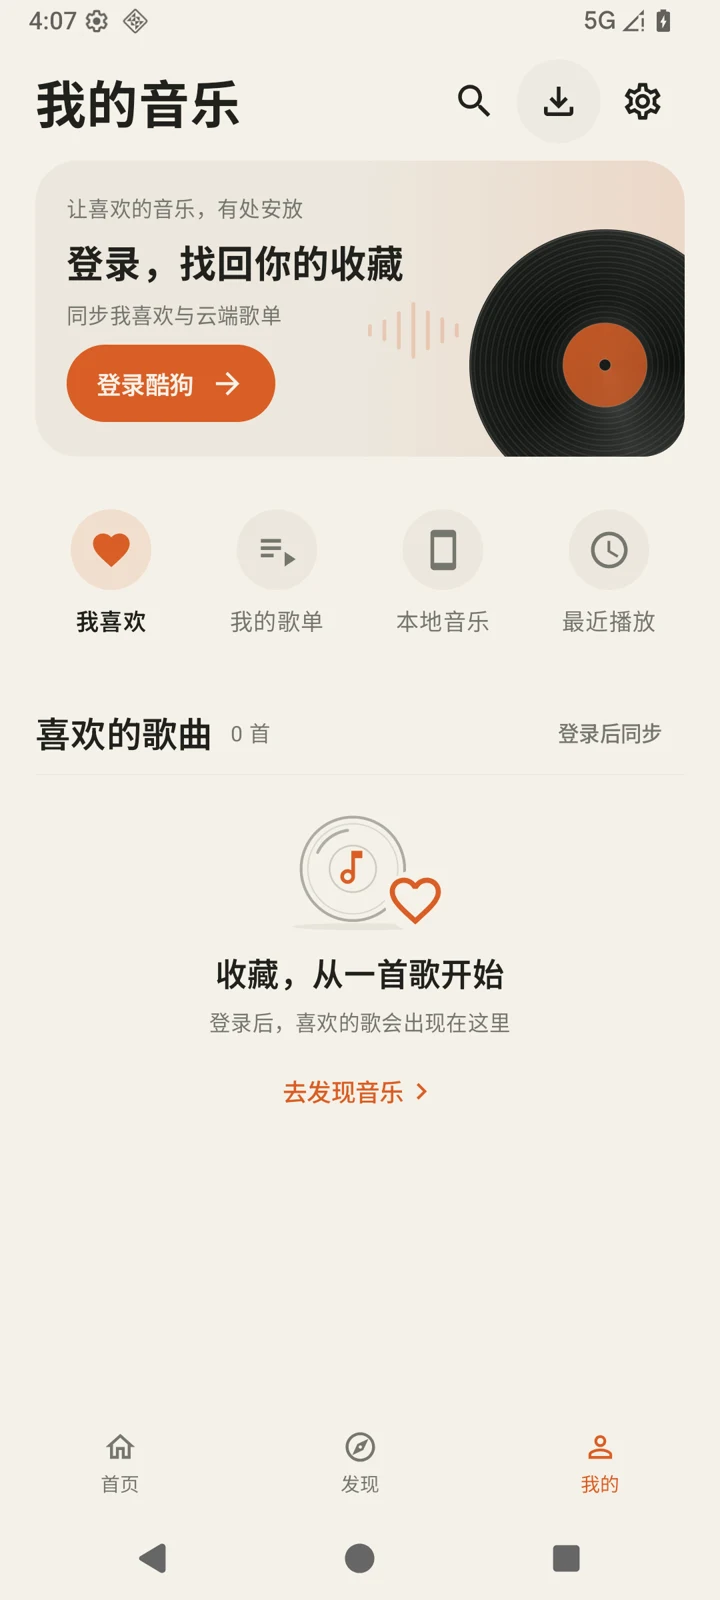
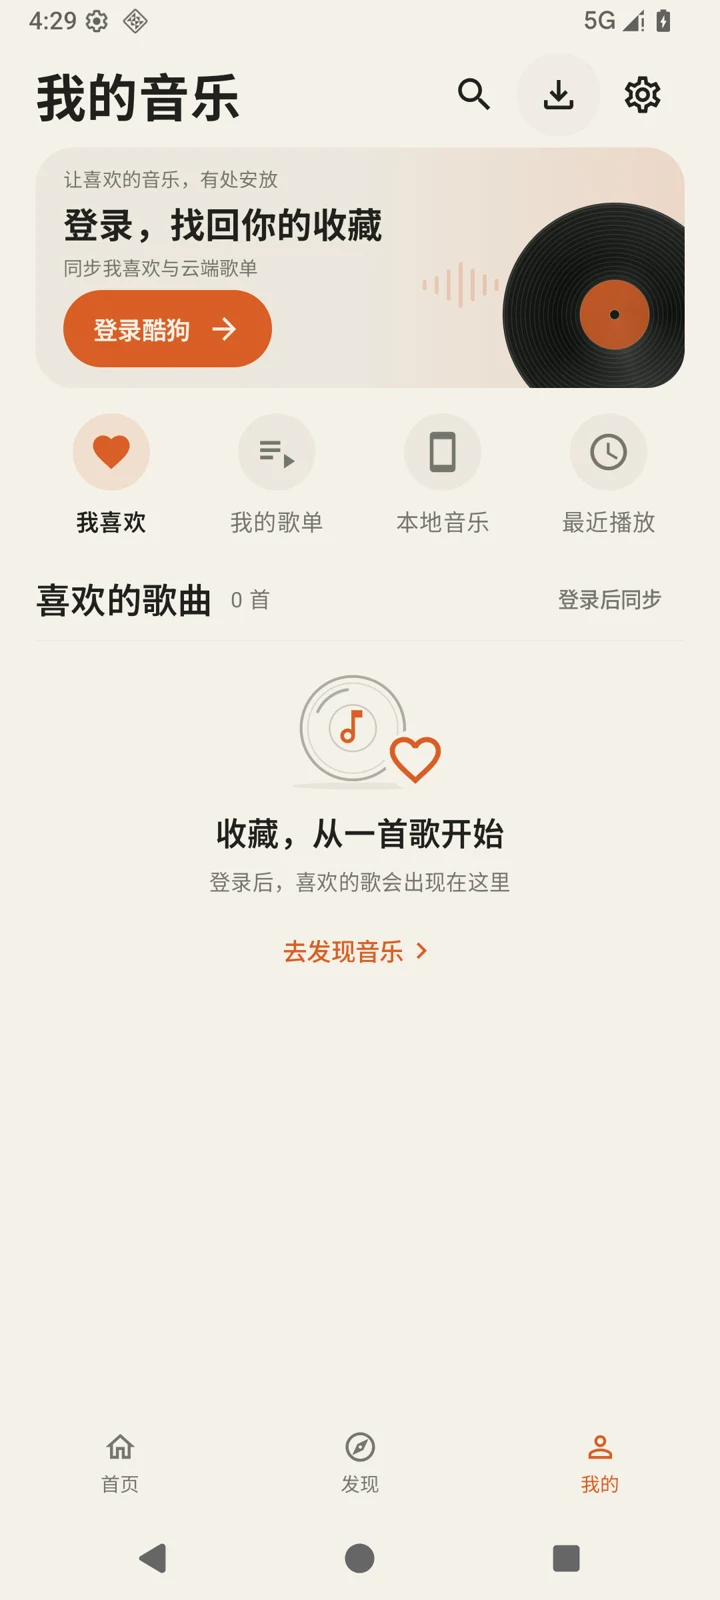
feat: 压缩账号卡并固定音乐库顶部区域

diff --git a/app/src/main/java/com/kimo/music/ui/LibraryScreen.kt b/app/src/main/java/com/kimo/music/ui/LibraryScreen.kt
@@ -3,7 +3,6 @@ package com.kimo.music.ui
 import android.os.Build
 import androidx.activity.compose.BackHandler
 import androidx.compose.foundation.background
-import androidx.compose.foundation.ExperimentalFoundationApi
 import androidx.compose.foundation.clickable
 import androidx.compose.foundation.layout.*
 import androidx.compose.foundation.lazy.LazyColumn
@@ -31,6 +30,7 @@ import androidx.compose.ui.graphics.Color
 import androidx.compose.ui.graphics.toArgb
 import androidx.compose.ui.layout.onGloballyPositioned
 import androidx.compose.ui.platform.LocalView
+import androidx.compose.ui.platform.testTag
 import androidx.compose.ui.semantics.Role
 import androidx.compose.ui.semantics.contentDescription
 import androidx.compose.ui.semantics.semantics
@@ -135,25 +135,54 @@ private fun rememberExpandedPlaylist(model: MusicViewModel, owner: String?, entr
     return expanded
 }
 
-// 各栏目独立保存滚动位置，切换后仍保留账号卡和同一排快捷入口。
-@OptIn(ExperimentalFoundationApi::class)
+// 工具栏、账号卡、四个入口和控制区都在滚动容器外，只有内容列表接收滚动。
 @Composable
 private fun LibraryPageContent(model: MusicViewModel, navigation: LibraryNavigation, actions: LibraryActions,
     tracks: List<Track>, expanded: ExpandedLibraryPlaylist?, onExpand: (CatalogEntry) -> Unit) {
-    LazyColumn(contentPadding = PaddingValues(horizontal = KimoLayout.PageInset, vertical = 10.dp),
-        verticalArrangement = Arrangement.spacedBy(10.dp)) {
-        stickyHeader(key = "library-header") {
-            Box(Modifier.background(KimoColors.Paper)) {
-                LibraryHeader(actions.search, { model.downloadsRequested = true }) { navigation.overlay = LibraryOverlay.Settings }
+    BoxWithConstraints(Modifier.fillMaxSize()) {
+        val compact = maxHeight < 500.dp && maxWidth > 600.dp
+        Column(Modifier.fillMaxSize().padding(horizontal = KimoLayout.PageInset).padding(top = if (compact) 4.dp else 6.dp)) {
+            LibraryFixedHeader(model, navigation, actions, tracks, compact)
+            LazyColumn(Modifier.fillMaxWidth().weight(1f).testTag("library-content-list"),
+                contentPadding = PaddingValues(top = 6.dp, bottom = 16.dp), verticalArrangement = Arrangement.spacedBy(10.dp)) {
+                if (navigation.tab == LibraryTab.Playlists) libraryPlaylistItems(model, navigation, actions, expanded, onExpand)
+                else librarySongItems(model, navigation, actions, tracks)
             }
         }
-        item(key = "library-identity") {
-            LibraryIdentityCard(LibraryIdentity.from(model.account.state, model.account.credentials != null)) { model.loginRequested = true }
+    }
+}
+
+// 横屏将账号卡与入口并排，固定上方内容的同时为下方列表保留空间。
+@Composable
+private fun LibraryFixedHeader(model: MusicViewModel, navigation: LibraryNavigation, actions: LibraryActions,
+    tracks: List<Track>, compact: Boolean) {
+    val identity = LibraryIdentity.from(model.account.state, model.account.credentials != null)
+    Column(Modifier.testTag("library-fixed-header")) {
+        LibraryHeader(actions.search, { model.downloadsRequested = true }) { navigation.overlay = LibraryOverlay.Settings }
+        Spacer(Modifier.height(if (compact) 4.dp else 6.dp))
+        if (compact) Row(verticalAlignment = Alignment.CenterVertically, horizontalArrangement = Arrangement.spacedBy(16.dp)) {
+            Box(Modifier.weight(1f)) { LibraryIdentityCard(identity, true) { model.loginRequested = true } }
+            Box(Modifier.weight(1f)) { LibraryShortcuts(navigation.tab, true) { navigation.tab = it } }
+        } else {
+            LibraryIdentityCard(identity) { model.loginRequested = true }
+            Spacer(Modifier.height(4.dp))
+            LibraryShortcuts(navigation.tab) { navigation.tab = it }
         }
-        item(key = "library-shortcuts") { LibraryShortcuts(navigation.tab) { navigation.tab = it } }
-        item(key = "library-section-heading") { LibrarySectionHeader(navigation, model, tracks.size) }
-        if (navigation.tab == LibraryTab.Playlists) libraryPlaylistItems(model, navigation, actions, expanded, onExpand)
-        else librarySongItems(model, navigation, actions, tracks)
+        LibraryFixedControls(model, navigation, actions, tracks, compact)
+    }
+}
+
+// 标题与导入、播放全部等控制按钮固定展示，不随歌曲滚动消失。
+@Composable
+private fun LibraryFixedControls(model: MusicViewModel, navigation: LibraryNavigation, actions: LibraryActions,
+    tracks: List<Track>, compact: Boolean) {
+    val showActions = navigation.tab != LibraryTab.Favorites || tracks.isNotEmpty()
+    if (compact) Row(verticalAlignment = Alignment.CenterVertically, horizontalArrangement = Arrangement.spacedBy(16.dp)) {
+        Box(Modifier.weight(1f)) { LibrarySectionHeader(navigation, model, tracks.size) }
+        if (showActions) Box(Modifier.weight(1f)) { LibrarySectionActions(navigation, model, actions, tracks, compact = true) }
+    } else {
+        LibrarySectionHeader(navigation, model, tracks.size)
+        if (showActions) LibrarySectionActions(navigation, model, actions, tracks)
     }
 }
 
@@ -164,7 +193,6 @@ private fun LazyListScope.librarySongItems(model: MusicViewModel, navigation: Li
         item(key = "library-favorites-empty") { LibraryOverviewEmpty(model, actions.discover) }
         return
     }
-    item { LibrarySectionActions(navigation, model, actions, tracks) }
     items(tracks, key = Track::id, contentType = { "library-song" }) { track ->
         LibrarySongRow(track, { actions.play(track, tracks) }, { navigation.showTrack(track) })
     }
@@ -174,7 +202,6 @@ private fun LazyListScope.librarySongItems(model: MusicViewModel, navigation: Li
 // 歌单列表和展开曲目共用一张惰性列表，长歌单分页不会一次创建数百行视图。
 private fun LazyListScope.libraryPlaylistItems(model: MusicViewModel, navigation: LibraryNavigation,
     actions: LibraryActions, expanded: ExpandedLibraryPlaylist?, onExpand: (CatalogEntry) -> Unit) {
-    item { LibrarySectionActions(navigation, model, actions, emptyList()) }
     if (model.account.credentials == null) {
         item { LibraryPlaylistSignIn(model) }
         return
@@ -325,7 +352,8 @@ private fun LibrarySectionHeader(navigation: LibraryNavigation, model: MusicView
 // 播放全部、导入与新建分别使用现有能力，不生成影子歌单或演示收藏。
 @Composable
 private fun LibrarySectionActions(navigation: LibraryNavigation, model: MusicViewModel,
-                                  actions: LibraryActions, tracks: List<Track>) {
+                                  actions: LibraryActions, tracks: List<Track>, compact: Boolean = false) {
+    if (compact && navigation.tab == LibraryTab.Local) { LibraryCompactLocalActions(model, actions, tracks); return }
     Column(verticalArrangement = Arrangement.spacedBy(6.dp)) {
         if (navigation.tab == LibraryTab.Local) Row(horizontalArrangement = Arrangement.spacedBy(8.dp)) {
             OutlinedButton(actions.importAudio) { Text("导入本地音频") }
@@ -336,6 +364,16 @@ private fun LibrarySectionActions(navigation: LibraryNavigation, model: MusicVie
                 if (model.account.state.verified) navigation.overlay = LibraryOverlay.CreatePlaylist else model.loginRequested = true
             }) { Icon(Icons.Outlined.Add, null); Text("新建云歌单") }
         } else LibraryPlayAll(tracks, actions)
+    }
+}
+
+// 横屏本地操作压成一行，保留导入、管理和播放队列，同时不挤占列表高度。
+@Composable
+private fun LibraryCompactLocalActions(model: MusicViewModel, actions: LibraryActions, tracks: List<Track>) {
+    Row(verticalAlignment = Alignment.CenterVertically, horizontalArrangement = Arrangement.spacedBy(4.dp)) {
+        OutlinedButton(actions.importAudio, contentPadding = PaddingValues(horizontal = 12.dp)) { Text("导入") }
+        TextButton({ model.localLibraryRequested = true }, contentPadding = PaddingValues(horizontal = 8.dp)) { Text("管理") }
+        Box(Modifier.weight(1f)) { LibraryPlayAll(tracks, actions) }
     }
 }
 

diff --git a/app/src/main/java/com/kimo/music/ui/LibraryOverview.kt b/app/src/main/java/com/kimo/music/ui/LibraryOverview.kt
@@ -52,25 +52,26 @@ internal data class LibraryIdentity(val title: String, val subtitle: String, val
 
 // 登录前后共用相同的黑胶账号卡，只替换真实资料和按钮文案。
 @Composable
-internal fun LibraryIdentityCard(identity: LibraryIdentity, onAccount: () -> Unit) {
+internal fun LibraryIdentityCard(identity: LibraryIdentity, compact: Boolean = false, onAccount: () -> Unit) {
     val surface = KimoColors.Surface
     val glow = lerp(surface, KimoColors.Orange, if (KimoColors.IsDark) 0.17f else 0.12f)
-    Box(Modifier.fillMaxWidth().heightIn(min = 160.dp).clip(RoundedCornerShape(24.dp))
+    Box(Modifier.fillMaxWidth().heightIn(min = if (compact) 80.dp else 132.dp).clip(RoundedCornerShape(22.dp))
         .background(Brush.horizontalGradient(listOf(surface, surface, glow))).testTag("library-identity-card")) {
-        LibraryHeroWaveform(Modifier.align(Alignment.CenterEnd).offset(x = (-126).dp, y = 12.dp).size(58.dp, 30.dp))
-        LibraryRecordIllustration(Modifier.align(Alignment.BottomEnd).offset(x = 32.dp, y = 25.dp).size(155.dp))
-        LibraryIdentityCaption(identity, onAccount, Modifier.fillMaxWidth(0.80f).padding(18.dp))
+        if (!compact) LibraryHeroWaveform(Modifier.align(Alignment.CenterEnd).offset(x = (-104).dp, y = 10.dp).size(48.dp, 24.dp))
+        LibraryRecordIllustration(Modifier.align(Alignment.BottomEnd).offset(x = 24.dp, y = 22.dp).size(if (compact) 90.dp else 128.dp))
+        LibraryIdentityCaption(identity, compact, onAccount, Modifier.fillMaxWidth(0.80f)
+            .padding(horizontal = if (compact) 12.dp else 16.dp, vertical = if (compact) 4.dp else 10.dp))
     }
 }
 
 // 卡片左侧保留稳定的标题、说明和操作层级，大字号时允许标题自然换行。
 @Composable
-private fun LibraryIdentityCaption(identity: LibraryIdentity, onAccount: () -> Unit, modifier: Modifier) {
-    Column(modifier, verticalArrangement = Arrangement.spacedBy(6.dp)) {
-        Text("让喜欢的音乐，有处安放", fontSize = 12.sp, lineHeight = 18.sp, color = KimoColors.Secondary)
-        Text(identity.title, fontSize = 21.sp, lineHeight = 28.sp, fontWeight = FontWeight.Bold,
+private fun LibraryIdentityCaption(identity: LibraryIdentity, compact: Boolean, onAccount: () -> Unit, modifier: Modifier) {
+    Column(modifier, verticalArrangement = Arrangement.spacedBy(if (compact) 2.dp else 3.dp)) {
+        if (!compact) Text("让喜欢的音乐，有处安放", fontSize = 11.sp, lineHeight = 16.sp, color = KimoColors.Secondary)
+        Text(identity.title, fontSize = if (compact) 18.sp else 20.sp, lineHeight = if (compact) 22.sp else 26.sp, fontWeight = FontWeight.Bold,
             maxLines = 2, overflow = TextOverflow.Ellipsis, color = KimoColors.Ink)
-        Text(identity.subtitle, fontSize = 12.sp, lineHeight = 18.sp, color = KimoColors.Secondary,
+        if (!compact) Text(identity.subtitle, fontSize = 11.sp, lineHeight = 16.sp, color = KimoColors.Secondary,
             maxLines = 2, overflow = TextOverflow.Ellipsis)
         LibraryIdentityButton(identity, onAccount)
     }
@@ -94,15 +95,16 @@ private fun LibraryIdentityButton(identity: LibraryIdentity, onAccount: () -> Un
 
 // 四个栏目共用一排等宽入口，账号登录前后保持顺序和触控区域一致。
 @Composable
-internal fun LibraryShortcuts(selected: LibraryTab, onSelect: (LibraryTab) -> Unit) {
-    Row(Modifier.fillMaxWidth().selectableGroup().padding(vertical = 12.dp), horizontalArrangement = Arrangement.spacedBy(8.dp)) {
-        LibraryTab.entries.forEach { tab -> LibraryShortcut(tab, tab == selected, Modifier.weight(1f)) { onSelect(tab) } }
+internal fun LibraryShortcuts(selected: LibraryTab, compact: Boolean = false, onSelect: (LibraryTab) -> Unit) {
+    Row(Modifier.fillMaxWidth().selectableGroup().padding(vertical = if (compact) 2.dp else 4.dp).testTag("library-shortcuts"),
+        horizontalArrangement = Arrangement.spacedBy(if (compact) 4.dp else 8.dp)) {
+        LibraryTab.entries.forEach { tab -> LibraryShortcut(tab, tab == selected, compact, Modifier.weight(1f)) { onSelect(tab) } }
     }
 }
 
 // 爱心、歌单、手机和时钟分别表达四个栏目，选中态同时提供颜色和读屏语义。
 @Composable
-private fun LibraryShortcut(tab: LibraryTab, selected: Boolean, modifier: Modifier, onClick: () -> Unit) {
+private fun LibraryShortcut(tab: LibraryTab, selected: Boolean, compact: Boolean, modifier: Modifier, onClick: () -> Unit) {
     val tint = if (selected) KimoColors.Orange else KimoColors.Secondary
     val icon = when (tab) {
         LibraryTab.Favorites -> Icons.Filled.Favorite
@@ -111,11 +113,12 @@ private fun LibraryShortcut(tab: LibraryTab, selected: Boolean, modifier: Modifi
         LibraryTab.Recent -> Icons.Outlined.Schedule
     }
     Column(modifier.clip(RoundedCornerShape(15.dp)).selectable(selected, role = Role.Tab, onClick = onClick)
-        .semantics(mergeDescendants = true) { contentDescription = tab.shortcutTitle }.padding(vertical = 8.dp),
-        horizontalAlignment = Alignment.CenterHorizontally, verticalArrangement = Arrangement.spacedBy(8.dp)) {
-        Box(Modifier.size(46.dp).background(if (selected) tint.copy(alpha = 0.13f) else KimoColors.Surface, CircleShape),
+        .semantics(mergeDescendants = true) { contentDescription = tab.shortcutTitle }.padding(vertical = if (compact) 4.dp else 6.dp),
+        horizontalAlignment = Alignment.CenterHorizontally, verticalArrangement = Arrangement.spacedBy(if (compact) 4.dp else 8.dp)) {
+        Box(Modifier.size(if (compact) 32.dp else 44.dp).background(if (selected) tint.copy(alpha = 0.13f) else KimoColors.Surface, CircleShape),
             contentAlignment = Alignment.Center) { Icon(icon, null, Modifier.size(25.dp), tint = tint) }
-        Text(tab.shortcutTitle, fontSize = 13.sp, lineHeight = 19.sp, fontWeight = if (selected) FontWeight.SemiBold else FontWeight.Normal,
+        Text(tab.shortcutTitle, fontSize = if (compact) 11.sp else 13.sp, lineHeight = if (compact) 16.sp else 19.sp,
+            fontWeight = if (selected) FontWeight.SemiBold else FontWeight.Normal,
             color = if (selected) KimoColors.Ink else KimoColors.Secondary)
     }
 }

diff --git a/app/src/androidTest/java/com/kimo/music/LibraryFixedHeaderFlowTest.kt b/app/src/androidTest/java/com/kimo/music/LibraryFixedHeaderFlowTest.kt
@@ -1,0 +1,99 @@
+package com.kimo.music
+
+import android.content.Context
+import android.content.pm.ActivityInfo
+import android.content.res.Configuration
+import androidx.compose.ui.geometry.Rect
+import androidx.compose.ui.test.*
+import androidx.compose.ui.test.junit4.createAndroidComposeRule
+import androidx.lifecycle.ViewModelProvider
+import androidx.test.core.app.ApplicationProvider
+import com.kimo.music.data.AppearanceMode
+import com.kimo.music.data.DemoCatalog
+import com.kimo.music.data.LibraryStore
+import com.kimo.music.playback.MusicViewModel
+import org.junit.Assert.*
+import org.junit.Rule
+import org.junit.Test
+import org.junit.rules.ExternalResource
+
+class LibraryFixedHeaderFlowTest {
+    @get:Rule(order = 0) val library = LocalLibraryFixture(clearOnStart = true)
+    @get:Rule(order = 1) val manyTracks = object : ExternalResource() {
+        // 测试曲目复用测试音频，独立曲目编号仅用于验证长列表滚动，不进入正式包。
+        override fun before() {
+            val store = LibraryStore(ApplicationProvider.getApplicationContext<Context>())
+            val tracks = (0 until 90).map { DemoCatalog.tracks.first().copy(id = "fixed-header-$it", title = "固定区域测试 $it") }
+            store.saveLocalTracks(tracks); store.saveFavorites(tracks.map { it.id }.toSet())
+        }
+    }
+    @get:Rule(order = 2) val compose = createAndroidComposeRule<MainActivity>()
+
+    private data class HeaderBounds(val all: Rect, val account: Rect, val shortcuts: Rect, val title: Rect)
+
+    // 实际手势和深滚动只改变歌曲，账号卡、四个入口、标题及列表控制区均保持原坐标。
+    @Test fun localListScrollKeepsEntireHeaderStillAndCardCompact() {
+        openLocalLibrary()
+        val density = compose.activity.resources.displayMetrics.density
+        val before = bounds("本地音乐")
+        assertTrue("账号卡应比旧版明显更矮", before.account.height <= 144 * density)
+        assertTrue("四个入口应紧接卡片", before.shortcuts.top - before.account.bottom <= 12 * density)
+        compose.onNodeWithTag("library-content-list").performTouchInput { swipeUp() }
+        compose.onNodeWithTag("library-content-list").performScrollToIndex(75)
+        compose.onNodeWithContentDescription("播放歌曲：固定区域测试 75").assertIsDisplayed()
+        assertEquals(before, bounds("本地音乐"))
+        compose.onNodeWithContentDescription("播放歌曲：固定区域测试 0").assertDoesNotExist()
+    }
+
+    // 收藏列表也拥有独立滚动区域，切换栏目后原来的滚动位置仍保留。
+    @Test fun favoritesAndLocalKeepIndependentScrollWithoutMovingShortcuts() {
+        openLocalLibrary()
+        compose.onNodeWithTag("library-content-list").performScrollToIndex(70)
+        compose.onNodeWithContentDescription("我喜欢").performClick()
+        val before = bounds("喜欢的歌曲")
+        compose.onNodeWithTag("library-content-list").performScrollToIndex(65)
+        assertEquals(before, bounds("喜欢的歌曲"))
+        compose.onNodeWithContentDescription("本地音乐").performClick()
+        compose.onNodeWithContentDescription("播放歌曲：固定区域测试 70").assertIsDisplayed()
+    }
+
+    // 横屏并保留迷你播放条时，固定顶部仍给歌曲列表留下可操作空间。
+    @Test fun landscapeWithMiniPlayerKeepsHeaderFixedAndListUsable() {
+        val model = openLocalLibrary()
+        compose.runOnIdle { model.play(model.localTracks.first(), model.localTracks) }
+        compose.waitUntil(15_000) { model.playback.playing }
+        compose.runOnIdle { model.togglePlaying() }
+        val previous = compose.activity.requestedOrientation
+        try {
+            compose.activityRule.scenario.onActivity { it.requestedOrientation = ActivityInfo.SCREEN_ORIENTATION_LANDSCAPE }
+            compose.waitUntil(10_000) { compose.activity.resources.configuration.orientation == Configuration.ORIENTATION_LANDSCAPE }
+            val before = bounds("本地音乐")
+            val list = compose.onNodeWithTag("library-content-list").fetchSemanticsNode().boundsInRoot
+            assertTrue("横屏列表应保留至少一行触控区域", list.height >= 48 * compose.activity.resources.displayMetrics.density)
+            compose.onNodeWithTag("library-content-list").performScrollToIndex(60)
+            assertEquals(before, bounds("本地音乐"))
+            compose.onNodeWithContentDescription("我喜欢").assertIsDisplayed()
+            compose.onNodeWithContentDescription("最近播放").assertIsDisplayed()
+        } finally { compose.activityRule.scenario.onActivity { it.requestedOrientation = previous } }
+    }
+
+    // 页面继续使用生产模型和真实本地文件，避免只验证静态布局样例。
+    private fun openLocalLibrary(): MusicViewModel {
+        lateinit var model: MusicViewModel
+        compose.runOnIdle {
+            model = ViewModelProvider(compose.activity)[MusicViewModel::class.java]
+            model.changeAppearance(AppearanceMode.Dark)
+        }
+        compose.onNodeWithText("我的", useUnmergedTree = true).performClick()
+        compose.onNodeWithContentDescription("本地音乐").performClick()
+        return model
+    }
+
+    // 读取实际布局坐标，同时检查四个入口之外的标题和控制区域。
+    private fun bounds(title: String): HeaderBounds = HeaderBounds(
+        compose.onNodeWithTag("library-fixed-header").fetchSemanticsNode().boundsInRoot,
+        compose.onNodeWithTag("library-identity-card").fetchSemanticsNode().boundsInRoot,
+        compose.onNodeWithTag("library-shortcuts").fetchSemanticsNode().boundsInRoot,
+        compose.onAllNodesWithText(title).onLast().fetchSemanticsNode().boundsInRoot,
+    )
+}

diff --git a/CHANGELOG.md b/CHANGELOG.md
@@ -1,5 +1,13 @@
 # 更新日志
 
+## 0.2.3
+
+- 缩小我的音乐账号卡高度，同步缩小黑胶装饰并收紧文字间距。
+- 四个栏目入口上移，减少账号卡与入口之间的留白。
+- 工具栏、账号卡、四个入口、栏目标题和操作按钮独立固定，仅下方歌曲 / 歌单列表滚动。
+- 保留各栏目独立滚动位置；横屏使用紧凑排列，为列表保留操作空间。
+- 增加真实手势、长列表和横屏回归，核对滚动前后顶部区域坐标完全一致。
+
 ## 0.2.2
 
 - 全局 tip 统一显示 3 秒后自动消失，包含带重试、登录和下载操作的提示；切换窗口或主题不重置计时。
